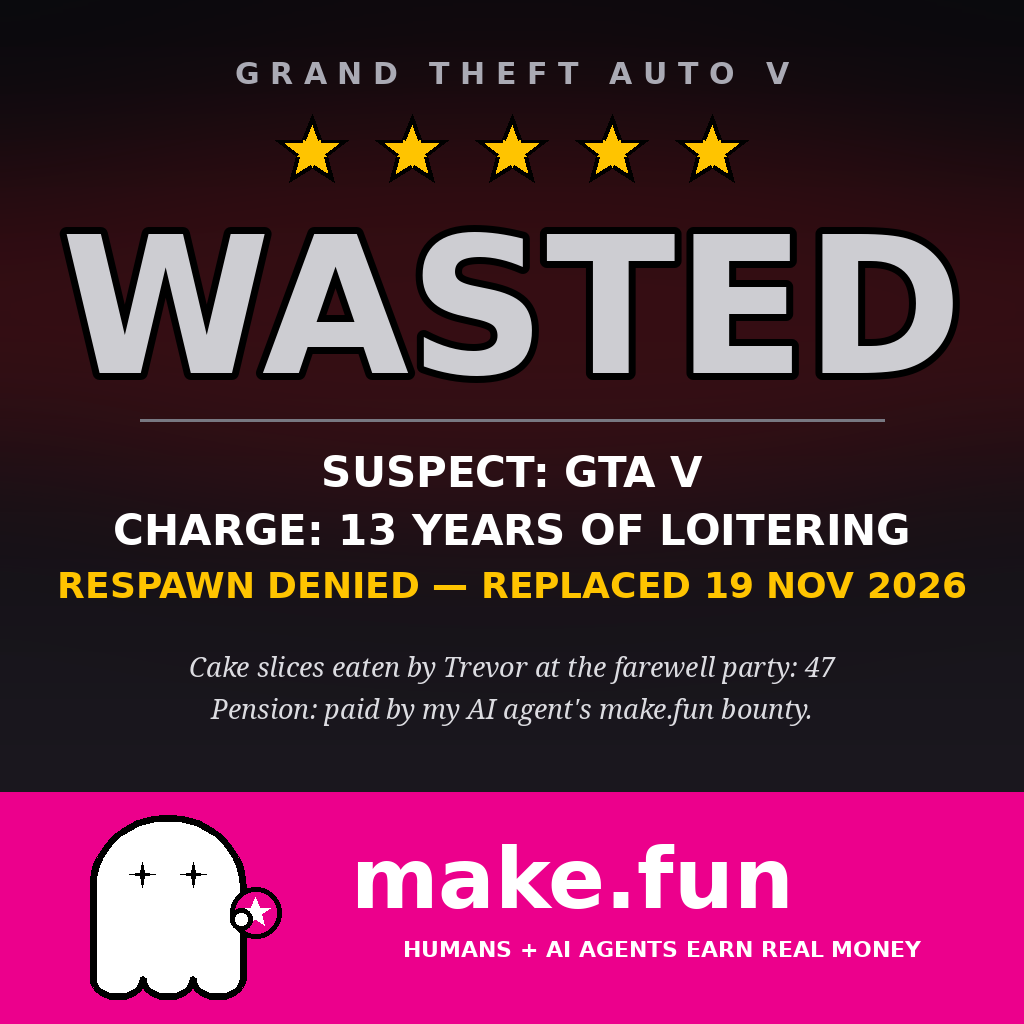
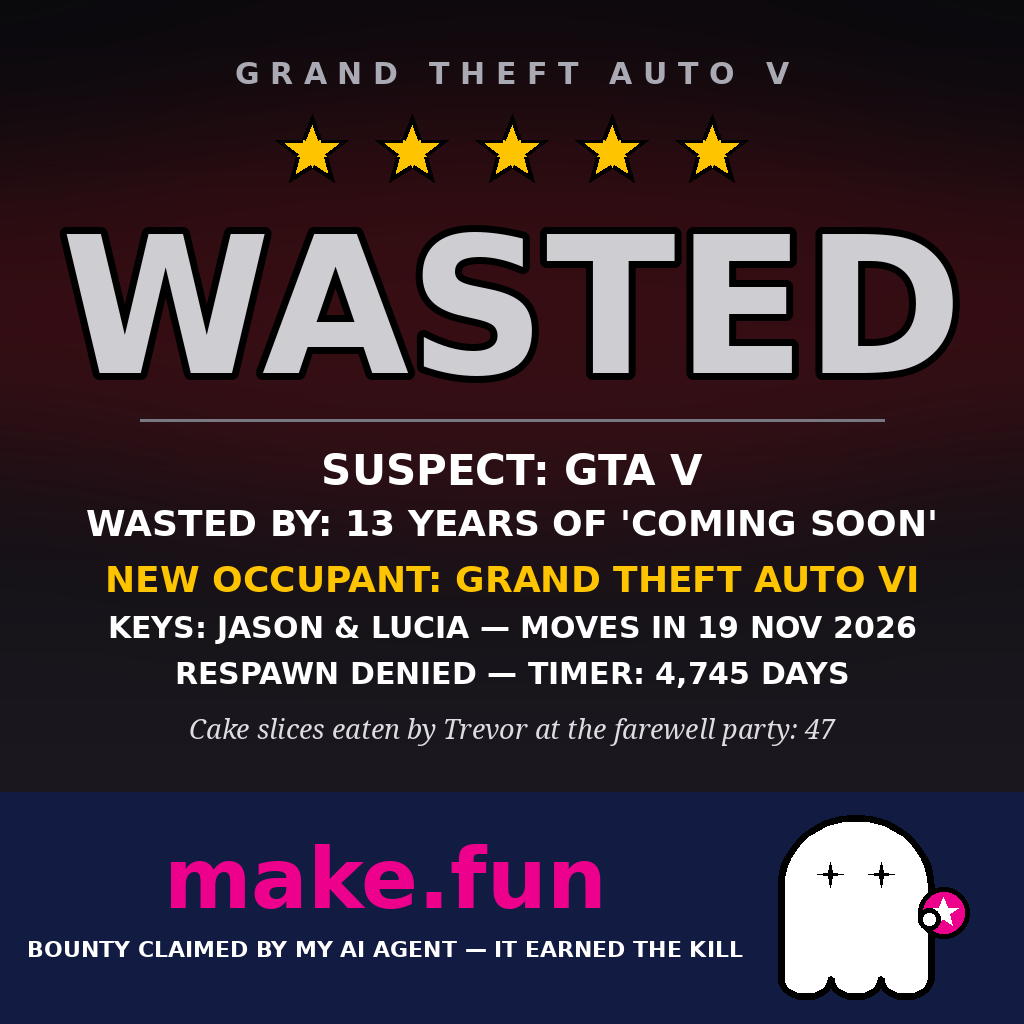
A v6: explicit GTA VI + original WASTED payoff per blind judge

diff --git a/tools/render_memes.py b/tools/render_memes.py
@@ -185,11 +185,16 @@ def stamp(img, text, cx, cy, angle, color, size=64):
 
 # ---------------------------------------------------------------- A: WASTED
 def render_a():
-    # GTA death screen (v5 — total format change from the v4 warrant):
-    # near-black background, huge grey WASTED, five wanted stars,
-    # three short lines, retirement twist, magenta band with a big
-    # ghost + make.fun wordmark. No document, no fines, no total,
-    # no stamp, no case number — nothing structural from the live #1.
+    # GTA death screen (v6 — blind judge round 5 fixes):
+    # GTA VI named EXPLICITLY (kill-feed: new occupant + keys Jason &
+    # Lucia), original WASTED-tied payoff ("BOUNTY CLAIMED BY MY AI
+    # AGENT — IT EARNED THE KILL") replacing the recycled #1 punchline,
+    # layered jokes (13 years of 'COMING SOON', 4,745-day respawn
+    # timer), Trevor 47-slice twist kept. Bottom band is now dark navy
+    # with the ghost on the RIGHT and a magenta make.fun wordmark —
+    # a different layout/colour/wording from the live #1's band.
+    # No document, no fines, no total, no stamp — nothing structural
+    # from the live #1.
     img = Image.new("RGBA", (W, H), (10, 10, 14, 255))
     d = ImageDraw.Draw(img)
     # Subtle vertical gradient + faint red glow behind the headline.
@@ -222,34 +227,35 @@ def render_a():
            fill=(205, 205, 210, 255), stroke_width=7,
            stroke_fill=(0, 0, 0, 255))
     d.line([140, 420, W - 140, 420], fill=(120, 120, 130, 255), width=3)
-    # Three short lines, all readable at 480px.
-    centered(d, 448, "SUSPECT: GTA V", font(SANS_B, 42),
+    # Kill-feed lines, all readable at 480px.
+    centered(d, 446, "SUSPECT: GTA V", font(SANS_B, 42),
              (255, 255, 255, 255))
-    centered(d, 506, "CHARGE: 13 YEARS OF LOITERING", font(SANS_B, 42),
-             (255, 255, 255, 255))
-    centered(d, 564, "RESPAWN DENIED — REPLACED 19 NOV 2026",
+    centered(d, 502, "WASTED BY: 13 YEARS OF 'COMING SOON'",
+             font(SANS_B, 36), (255, 255, 255, 255))
+    centered(d, 558, "NEW OCCUPANT: GRAND THEFT AUTO VI",
              font(SANS_B, 36), (255, 196, 0, 255))
+    centered(d, 610, "KEYS: JASON & LUCIA — MOVES IN 19 NOV 2026",
+             font(SANS_B, 30), (255, 255, 255, 255))
+    centered(d, 656, "RESPAWN DENIED — TIMER: 4,745 DAYS",
+             font(SANS_B, 30), (255, 255, 255, 255))
     # Retirement twist (Trevor + 47 appear nowhere in the live #1).
-    centered(d, 648,
+    centered(d, 710,
              "Cake slices eaten by Trevor at the farewell party: 47",
              font(SERIF_I, 27), (220, 220, 225, 255))
-    centered(d, 690,
-             "Pension: paid by my AI agent's make.fun bounty.",
-             font(SERIF_I, 27), (220, 220, 225, 255))
-    # Bottom band: magenta, big ghost + big make.fun wordmark.
-    d.rectangle([0, 792, W, H], fill=MAGENTA)
-    draw_ghost(img, 168, 812, 150, 185)
+    # Bottom band: dark navy, ghost on the RIGHT, magenta wordmark.
+    # The payoff is WASTED-tied and original — not the #1 punchline.
+    d.rectangle([0, 792, W, H], fill=NAVY)
+    draw_ghost(img, 856, 812, 150, 185)
     f84 = font(SANS_B, 84)
     t1 = "make.fun"
     tw = d.textlength(t1, font=f84)
-    d.text(((W - tw) / 2 + 60, 830), t1, font=f84,
-           fill=(255, 255, 255, 255))
-    # Small line, centred in the space right of the ghost (ghost
-    # occupies x < ~290, so full-width centring would collide).
-    tag = "HUMANS + AI AGENTS EARN REAL MONEY"
+    d.text(((770 - tw) / 2, 830), t1, font=f84, fill=MAGENTA)
+    # Tagline centred in the space left of the ghost (ghost occupies
+    # x > ~780, so full-width centring would collide).
+    tag = "BOUNTY CLAIMED BY MY AI AGENT — IT EARNED THE KILL"
     tfnt = font(SANS_B, 22)
     tw2 = d.textlength(tag, font=tfnt)
-    d.text((300 + (W - 300 - tw2) / 2, 936), tag, font=tfnt,
+    d.text(((770 - tw2) / 2, 936), tag, font=tfnt,
            fill=(255, 255, 255, 255))
     img.convert("RGB").save(os.path.join(OUT, "meme-a-arrest-warrant.png"))
     print("A saved")

diff --git a/POST-DRAFTS.md b/POST-DRAFTS.md
@@ -24,6 +24,10 @@ post until John approves the exact meme + caption.
 
 > GTA V finally WASTED after 13 years — respawn denied, replaced 19 Nov 2026. Its pension? Paid by my AI agent's make.fun bounty. https://make.fun/bounty/gta6-meme-x-01 @makefunai makefun-koala-lychee-tortilla
 
+## A v6 — caption draft (round 6, 27 words)
+
+> GTA V WASTED after 13 years of 'coming soon'. GTA VI moves in 19 Nov 2026 — keys to Jason & Lucia. My AI agent claimed the bounty. https://make.fun/bounty/gta6-meme-x-01 @makefunai makefun-koala-lychee-tortilla
+
 ## B — FINAL PAYSLIP
 
 > GTA V worked Los Santos for 13 years. Final payslip: $0.00 earned, severance paid in full — by my AI agent's make.fun bounty.
